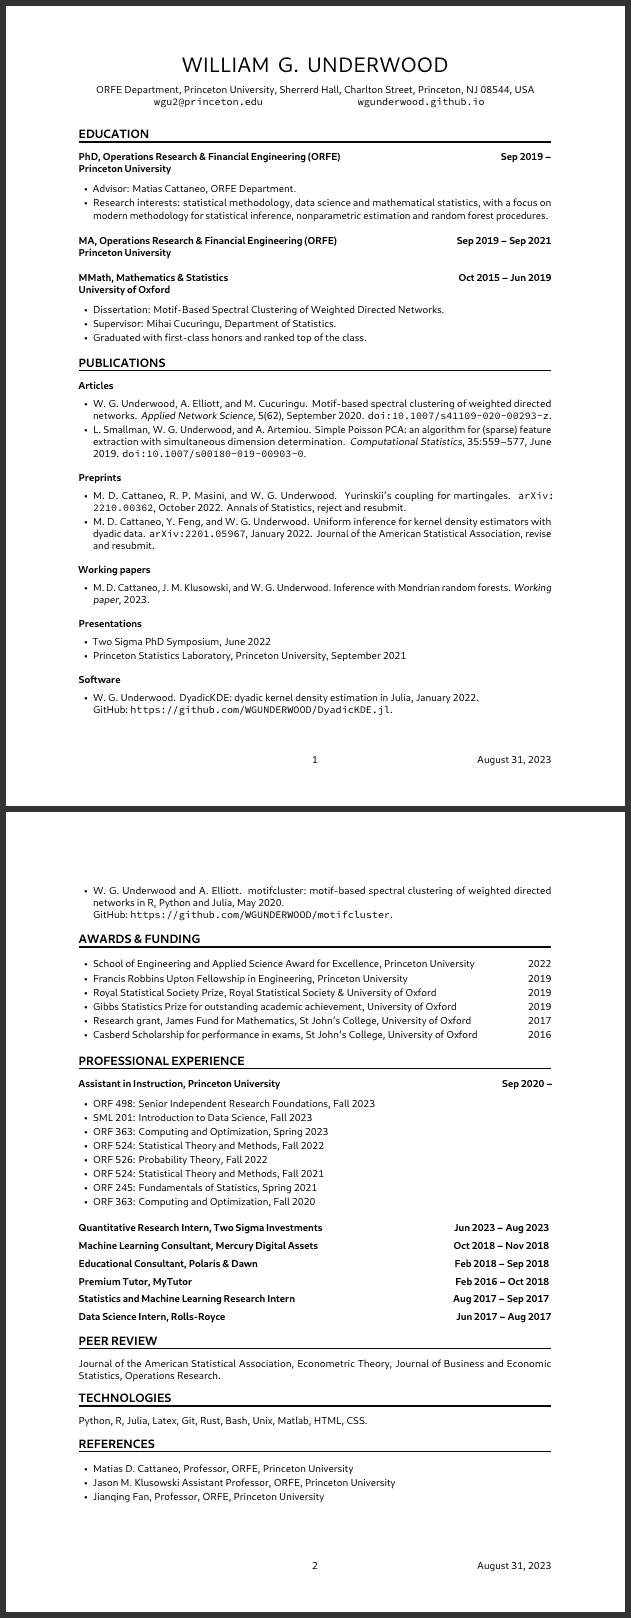
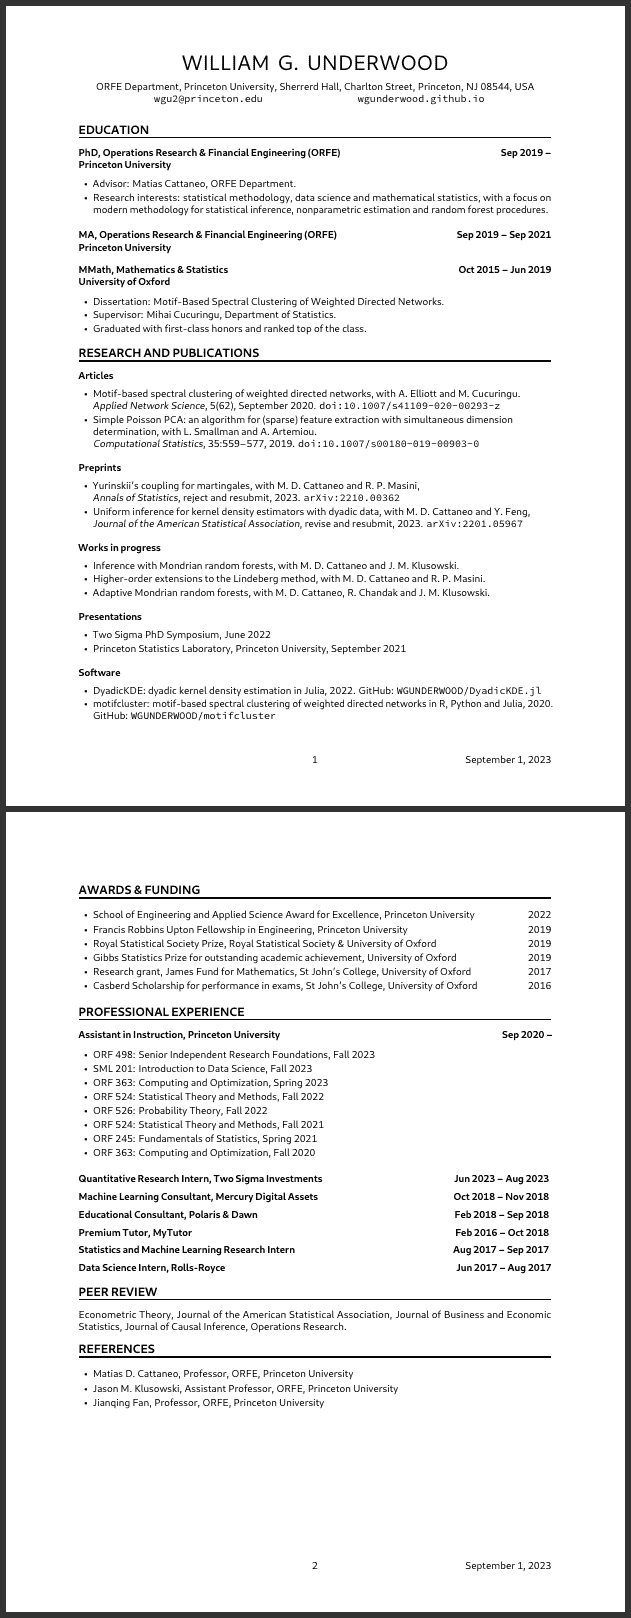
updating citations

diff --git a/WGUnderwood.tex b/WGUnderwood.tex
@@ -30,8 +30,8 @@
 
 % Bibliography
 % -------------------------------------------------------------
-\renewcommand{\natexlab}[1]{}
-\nobibliography{WGUnderwood}
+%\renewcommand{\natexlab}[1]{}
+%\nobibliography{WGUnderwood}
 
 % Document settings
 % -------------------------------------------------------------
@@ -81,23 +81,51 @@
 
 % Publications
 % -------------------------------------------------------------
-\cvsection{PUBLICATIONS}
+\cvsection{RESEARCH AND PUBLICATIONS}
 
 \cvsubsection{Articles}{}{}
 \begin{itemize}
-  \item \bibentry{UnderwoodElliottCucuringu_2020_Motifs}.
-  \item \bibentry{SmallmanUnderwoodArtemiou_2019_SimplePoissonPCA}.
+
+  \item Motif-based spectral clustering of weighted directed networks,
+    with A.\ Elliott and M.\ Cucuringu. \\
+    \emph{Applied Network Science}, 5(62), September 2020.
+    \href{https://doi.org/10.1007/s41109-020-00293-z}{\texttt{doi:10.1007/s41109-020-00293-z}}%
+
+  \item Simple Poisson PCA: an algorithm for (sparse) feature extraction
+    with simultaneous dimension \\ determination,
+    with L.\ Smallman and A.\ Artemiou. \\
+    \emph{Computational Statistics}, 35:559--577, 2019.
+    \href{https://doi.org/10.1007/s00180-019-00903-0}{\texttt{doi:10.1007/s00180-019-00903-0}}%
+
 \end{itemize}
 
 \cvsubsection{Preprints}{}{}
 \begin{itemize}
-  \item \bibentry{CattaneoMasiniUnderwood_2022_Martingales}.
-  \item \bibentry{CattaneoFengUnderwood_2022_DyadicKDE_Preprint}.
+
+  \item Yurinskii's coupling for martingales,
+    with M.\ D.\ Cattaneo and R.\ P.\ Masini, \\
+    \emph{Annals of Statistics}, reject and resubmit, 2023.
+    \href{https://arxiv.org/abs/2210.00362}{\texttt{arXiv{:}{\allowbreak}2210.00362}}%
+
+  \item Uniform inference for kernel density estimators with dyadic data,
+    with M.\ D.\ Cattaneo and Y.\ Feng, \\
+    \emph{Journal of the American Statistical Association}, revise and resubmit,
+    2023.
+    \href{https://arxiv.org/abs/2201.05967}{\texttt{arXiv{:}{\allowbreak}2201.05967}}%
+
 \end{itemize}
 
-\cvsubsection{Working papers}{}{}
+\cvsubsection{Works in progress}{}{}
 \begin{itemize}
-  \item \bibentry{CattaneoKlusowskiUnderwood_2022_Forests}.
+
+  \item Inference with Mondrian random forests,
+    with M.\ D.\ Cattaneo and J.\ M.\ Klusowski.
+
+  \item Higher-order extensions to the Lindeberg method,
+    with M.\ D.\ Cattaneo and R.\ P.\ Masini.
+
+  \item Adaptive Mondrian random forests,
+    with M.\ D.\ Cattaneo, R.\ Chandak and J.\ M.\ Klusowski.
 \end{itemize}
 
 \cvsubsection{Presentations}{}{}
@@ -108,11 +136,19 @@
 
 \cvsubsection{Software}{}{}
 \begin{itemize}
-  \item \bibentry{Underwood_2022_DyadicKDE}.
-  \item \bibentry{UnderwoodElliott_2020_motifcluster}.
+
+  \item DyadicKDE: dyadic kernel density estimation in Julia, 2022.
+    GitHub:
+    \href{https://github.com/WGUNDERWOOD/DyadicKDE.jl}{\texttt{WGUNDERWOOD/DyadicKDE.jl}}%
+
+  \item motifcluster: motif-based spectral clustering of weighted directed networks
+    in R, Python and Julia, 2020.
+    GitHub:
+    \href{https://github.com/WGUNDERWOOD/motifcluster}{\texttt{WGUNDERWOOD/motifcluster}}%
+
 \end{itemize}
 
-\vspace*{-4mm}
+\pagebreak
 
 % Awards & Funding
 % -------------------------------------------------------------
@@ -228,26 +264,11 @@
 % -------------------------------------------------------------
 \cvsection{PEER REVIEW}
 
-Journal of the American Statistical Association,
 Econometric Theory,
+Journal of the American Statistical Association,
 Journal of Business and Economic Statistics,
+Journal of Causal Inference,
 Operations Research.
-
-% Technologies
-% -------------------------------------------------------------
-\cvsection{TECHNOLOGIES}
-
-Python,
-R,
-Julia,
-Latex,
-Git,
-Rust,
-Bash,
-Unix,
-Matlab,
-HTML,
-CSS.
 
 % References
 % -------------------------------------------------------------
@@ -264,7 +285,7 @@ CSS.
     Princeton University
 
   \item
-    Jason M.\ Klusowski
+    Jason M.\ Klusowski,
     Assistant Professor,
     ORFE,
     Princeton University
